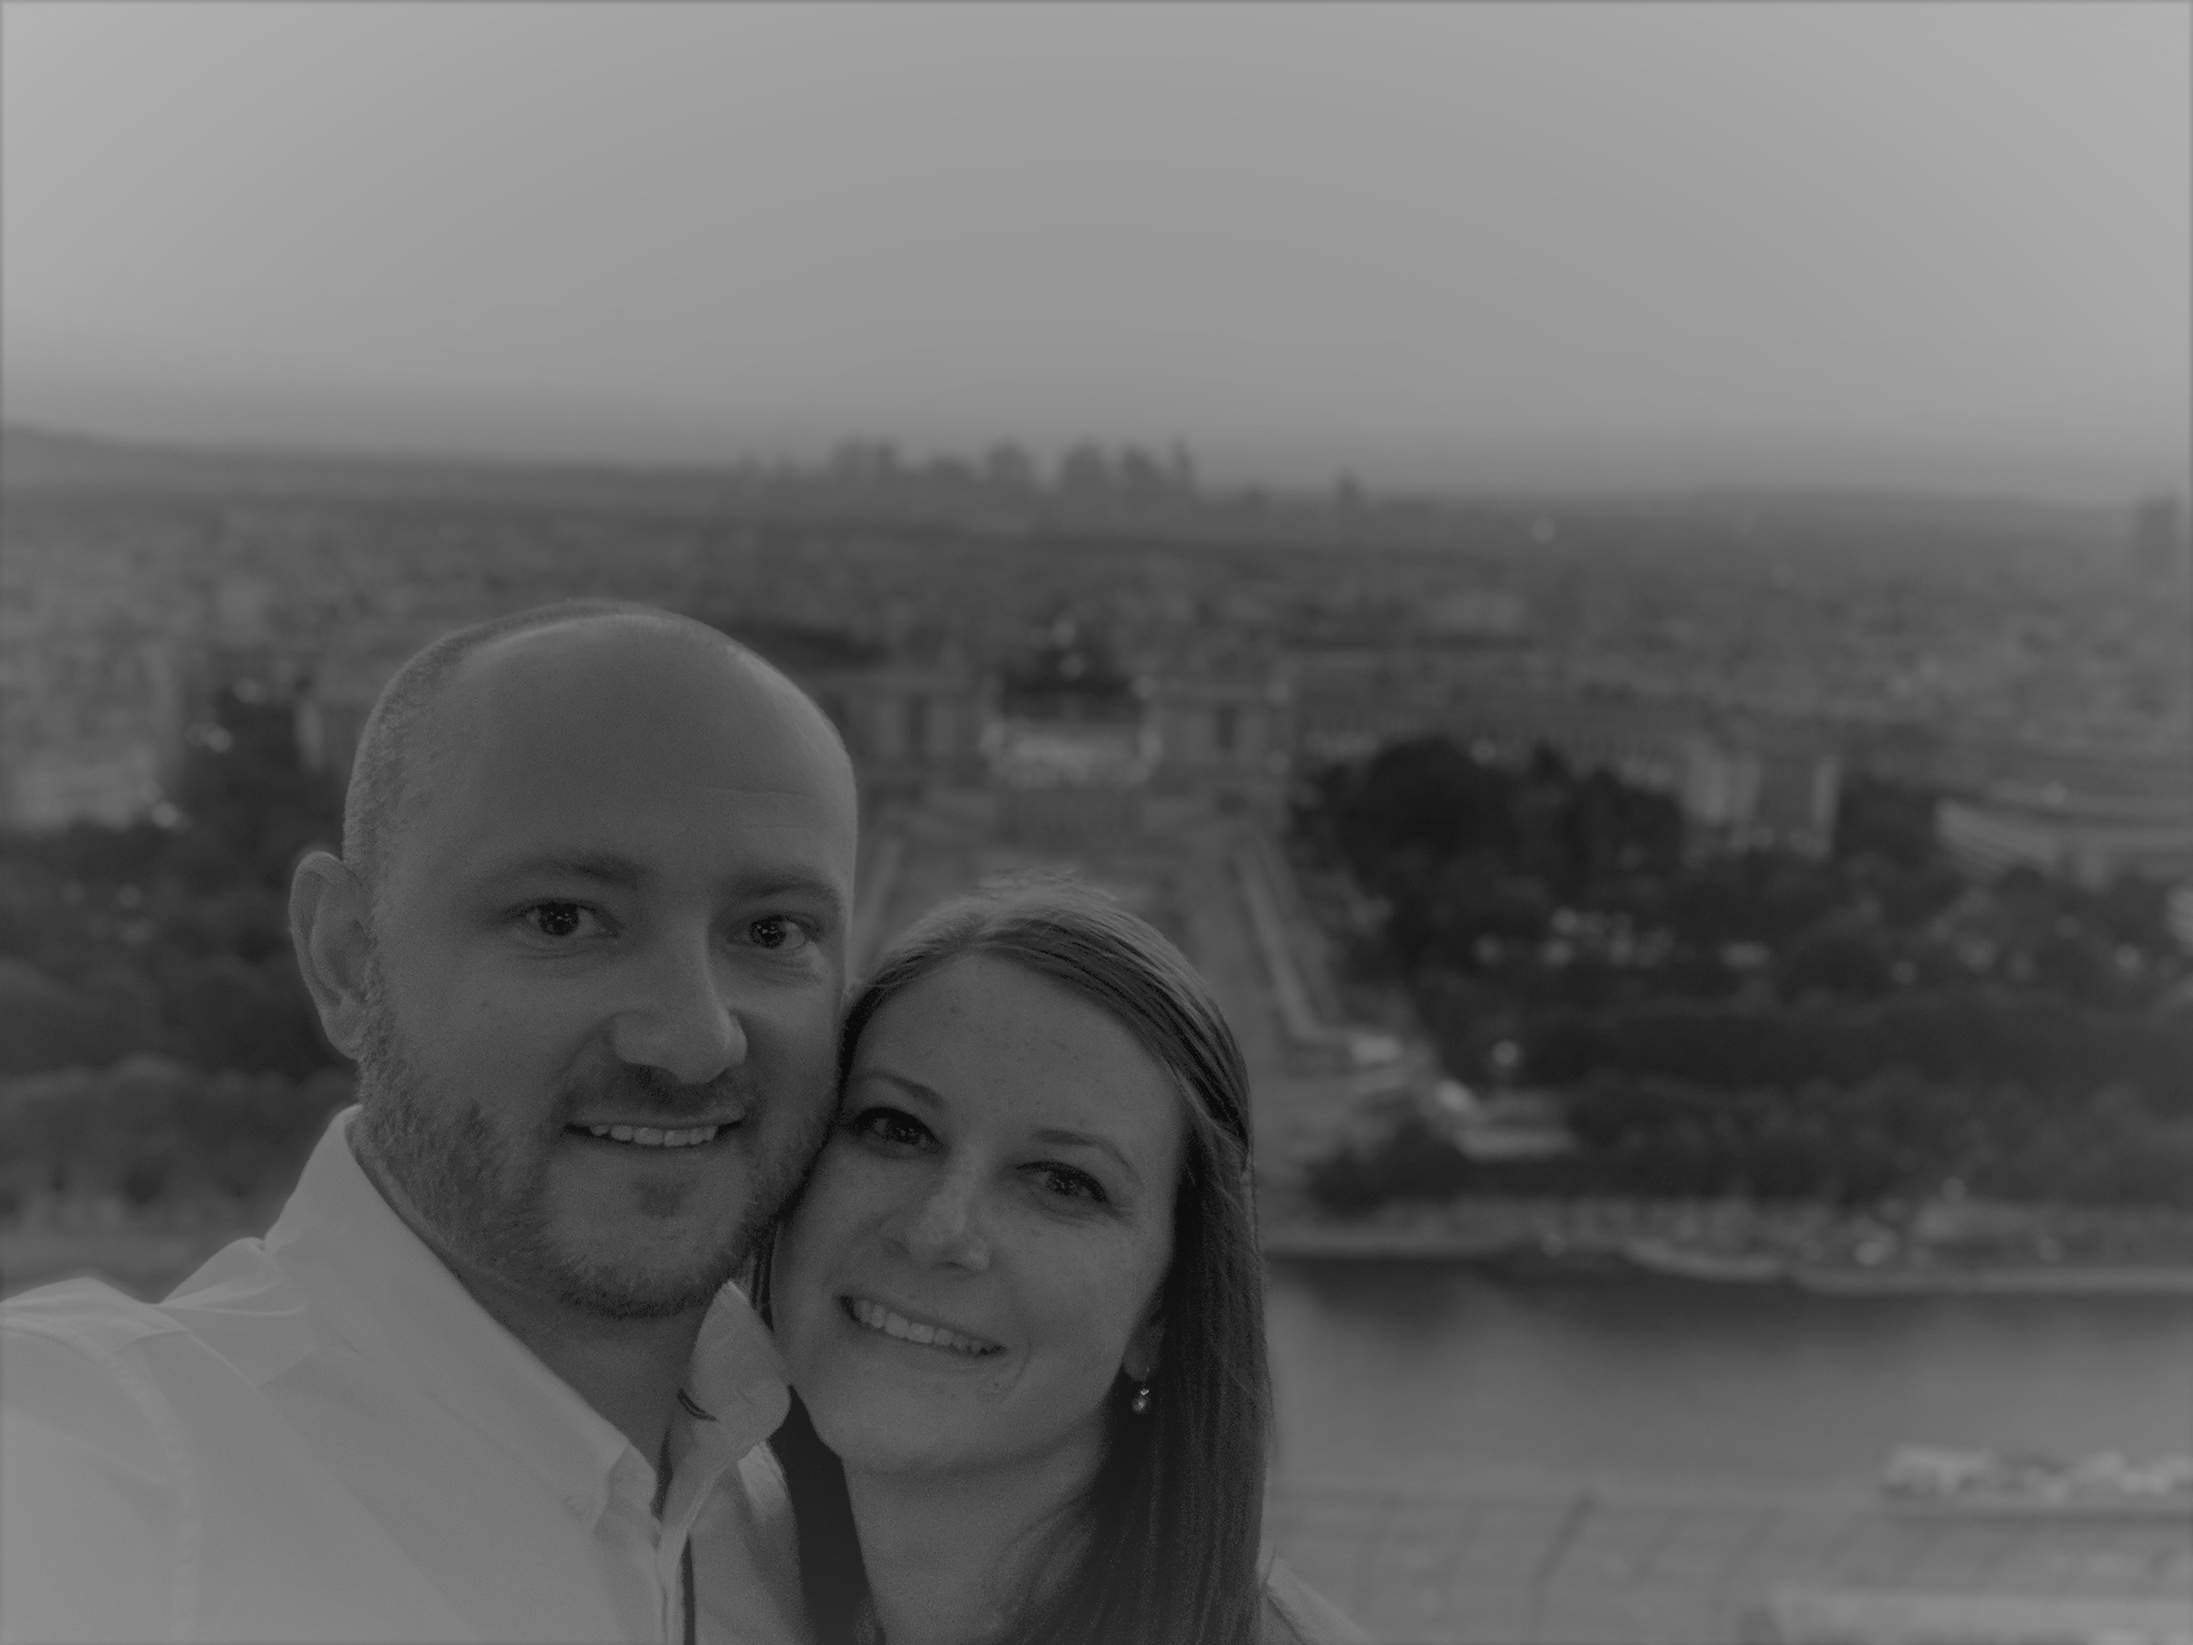
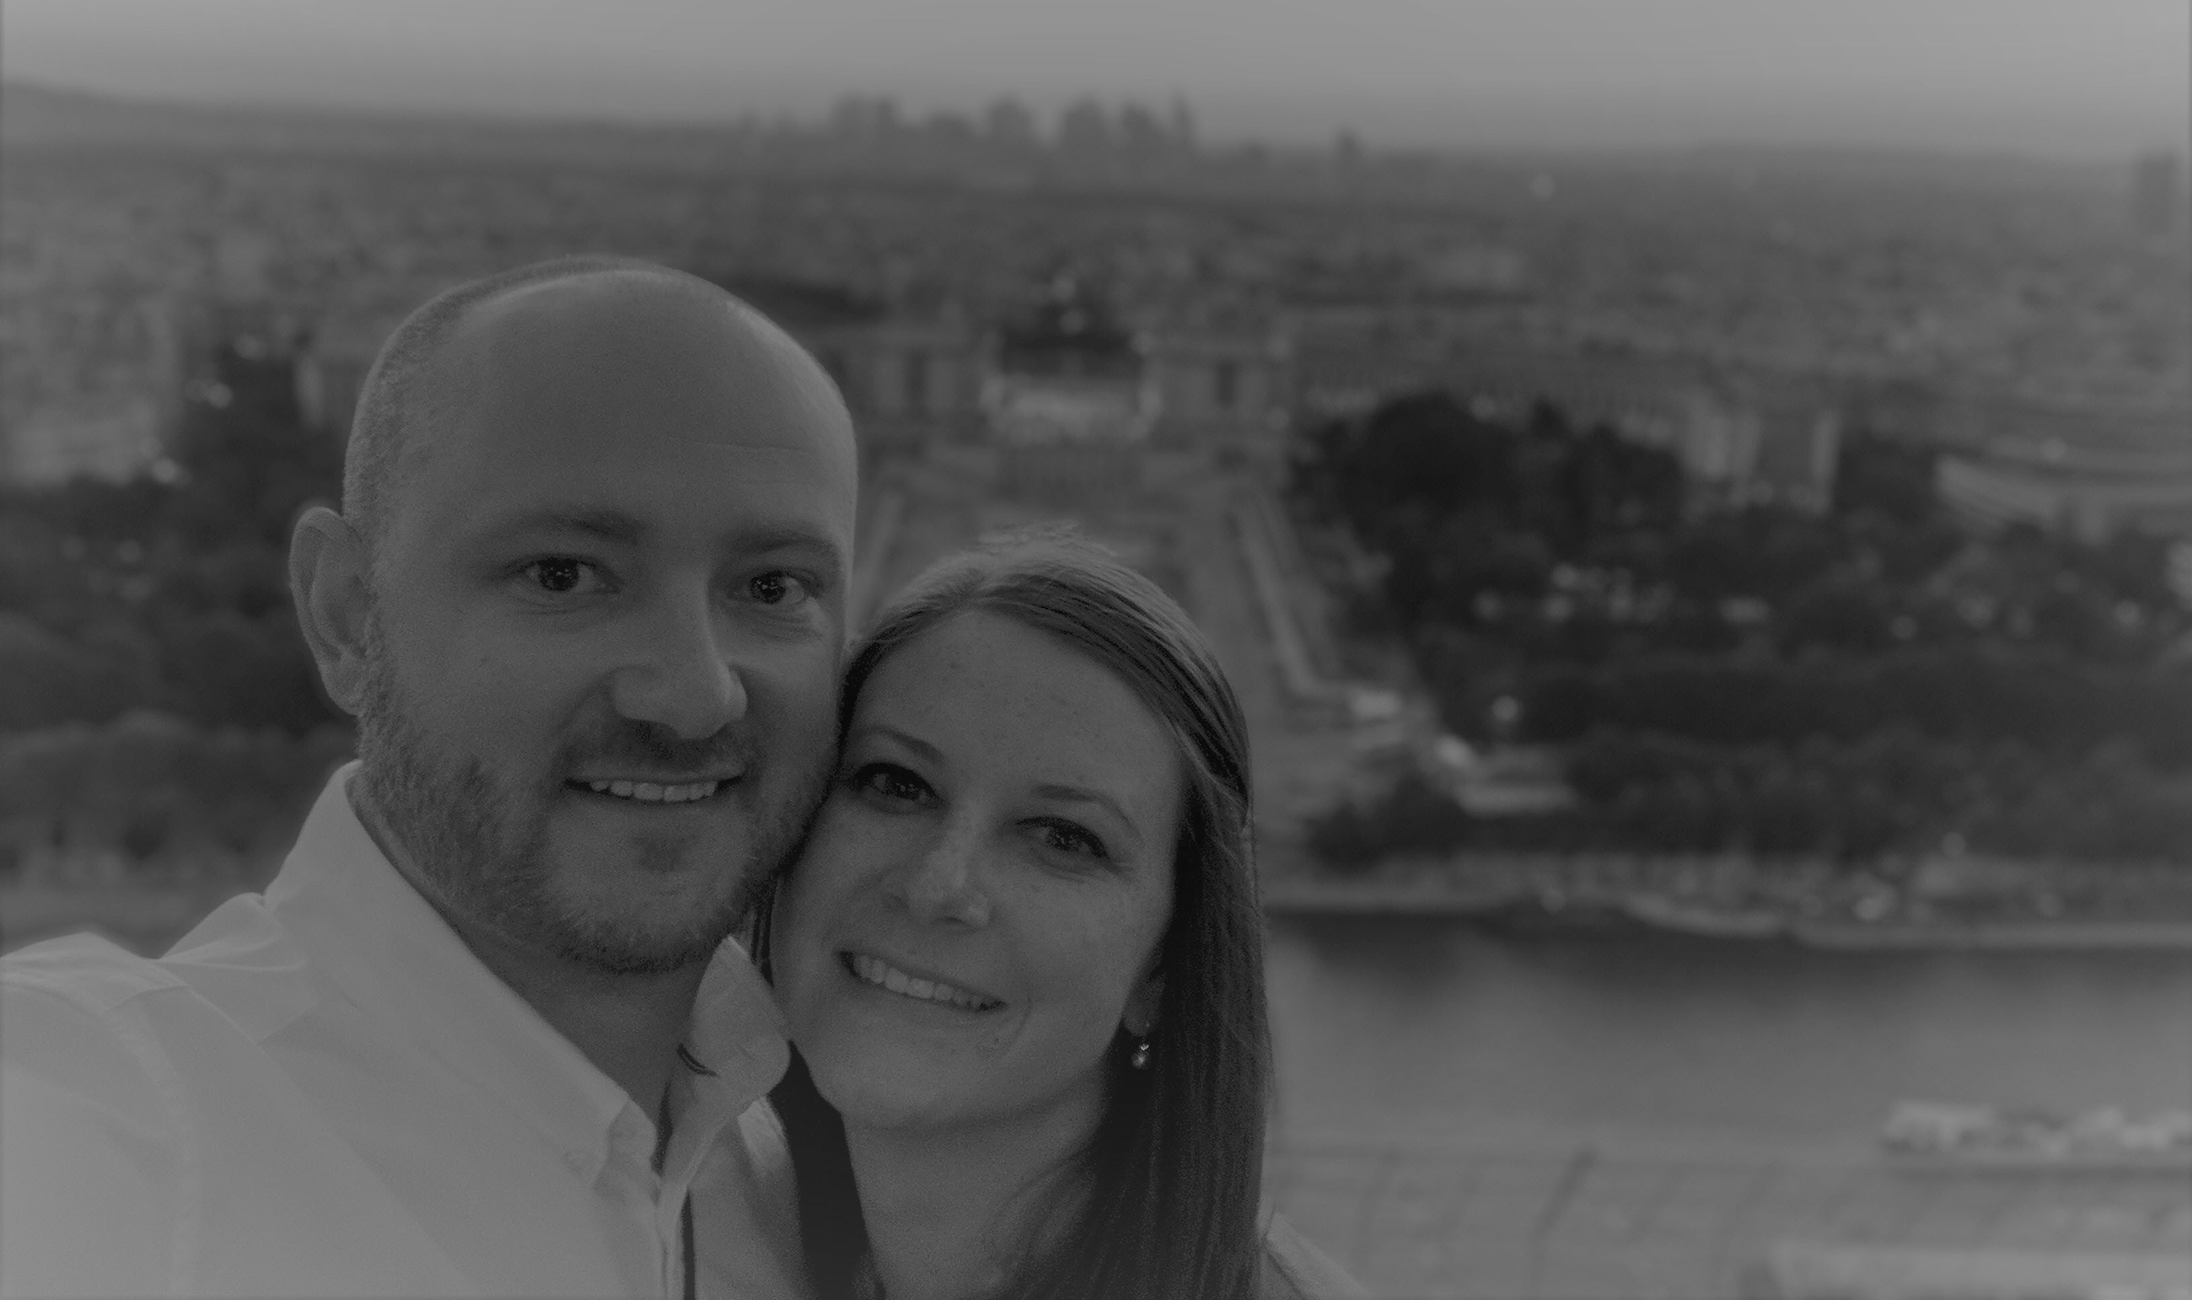
fixed some sections

diff --git a/index.html b/index.html
@@ -28,8 +28,17 @@
     }
 
     section {
-    padding: 50px 0;
+    padding: 25px 0;
 }
+
+    #contact {
+ color: #fed136;
+
+}
+#main-btn {
+    float: right
+}
+
     </style>
 
 </head>
@@ -71,9 +80,12 @@
     <header class="masthead">
         <div class="container">
             <div class="intro-text">
-                <div class="intro-lead-in">Welcome, friends</div>
-                <div class="intro-heading text-uppercase">Have a look around</div>
-                <a class="btn btn-primary btn-xl text-uppercase js-scroll-trigger" href="#team">Meet Tom</a>
+                <div class="intro-lead-in" style="text-align: right">
+                    <h1>meet(TomOcheltree) {<br>product manager, <br>web developer <br>
+                        }</h1>
+                </div>
+                <!-- <div class="intro-heading text-uppercase">Have a look around</div> -->
+                <a class="btn btn-primary btn-xl text-uppercase js-scroll-trigger" id="main-btn" href="#team">About Tom</a>
             </div>
         </div>
     </header>
@@ -190,38 +202,7 @@
                         <p class="text-muted">Click this link and never miss another train</p>
                     </div>
                 </div>
-                <!-- <div class="col-md-4 col-sm-6 portfolio-item">
-                    <a class="portfolio-link" data-toggle="modal" href="#portfolioModal5">
-                        <div class="portfolio-hover">
-                            <div class="portfolio-hover-content">
-                                <i class="fas fa-plus fa-3x"></i>
-                            </div>
-                        </div>
-                        <img class="img-fluid" src="./startbootstrap-agency-gh-pages/img/portfolio/05-thumbnail.jpg"
-                            alt="">
-                    </a>
-                    <div class="portfolio-caption">
-                        <h4>Southwest</h4>
-                        <p class="text-muted">Website Design</p>
-                    </div>
-                </div>
-                <div class="col-md-4 col-sm-6 portfolio-item">
-                    <a class="portfolio-link" data-toggle="modal" href="#portfolioModal6">
-                        <div class="portfolio-hover">
-                            <div class="portfolio-hover-content">
-                                <i class="fas fa-plus fa-3x"></i>
-                            </div>
-                        </div>
-                        <img class="img-fluid" src="./startbootstrap-agency-gh-pages/img/portfolio/06-thumbnail.jpg"
-                            alt="">
-                    </a>
-                    <div class="portfolio-caption">
-                        <h4>Window</h4>
-                        <p class="text-muted">Photography</p>
-                    </div>
-                </div>
-            </div>
-        </div> -->
+
     </section>
 
     <!-- About -->
@@ -230,7 +211,7 @@
             <div class="row">
                 <div class="col-lg-12 text-center">
                     <h2 class="section-heading text-uppercase">About</h2>
-                    <h3 class="section-subheading text-muted">Lorem ipsum dolor sit amet consectetur.</h3>
+                    <h3 class="section-subheading text-muted">Section under construction</h3>
                 </div>
             </div>
             <div class="row">
@@ -326,50 +307,23 @@
         <div class="container">
             <div class="row">
                 <div class="col-lg-12 text-center">
-                    <h2 class="section-heading text-uppercase">Our Amazing Team</h2>
+                    <h2 class="section-heading text-uppercase">Meet Tom</h2>
                     <h3 class="section-subheading text-muted">Believe it or not, it's a one-man show.</h3>
                 </div>
             </div>
             <div class="row">
                 <div class="col-sm-4">
-                    <!-- <div class="team-member">
-                        <img class="mx-auto rounded-circle" src="./startbootstrap-agency-gh-pages/img/team/1.jpg" alt="">
-                        <h4>Kay Garland</h4>
-                        <p class="text-muted">Lead Designer</p>
-                        <ul class="list-inline social-buttons">
-                            <li class="list-inline-item">
-                                <a href="#">
-                                    <i class="fab fa-twitter"></i>
-                                </a>
-                            </li>
-                            <li class="list-inline-item">
-                                <a href="#">
-                                    <i class="fab fa-facebook-f"></i>
-                                </a>
-                            </li>
-                            <li class="list-inline-item">
-                                <a href="#">
-                                    <i class="fab fa-linkedin-in"></i>
-                                </a>
-                            </li>
-                        </ul>
-                    </div> -->
+
                 </div>
                 <div class="col-sm-4">
                     <div class="team-member">
-                        <img class="mx-auto rounded-circle" src="./startbootstrap-agency-gh-pages/img/team/Tom in Paris.jpg"
-                            alt="">
+                        <img class="mx-auto" src="./startbootstrap-agency-gh-pages/img/team/Tom in Paris.jpg" alt="">
                         <h4>Tom Ocheltree</h4>
                         <p class="text-muted">Lead developer and all around great guy</p>
                         <ul class="list-inline social-buttons">
                             <li class="list-inline-item">
-                                <a href="#">
-                                    <i class="fab fa-twitter"></i>
-                                </a>
-                            </li>
-                            <li class="list-inline-item">
-                                <a href="#">
-                                    <i class="fab fa-facebook-f"></i>
+                                <a href="https://github.com/tjochelt" target="_blank">
+                                    <i class="fab fa-github"></i>
                                 </a>
                             </li>
                             <li class="list-inline-item">
@@ -407,8 +361,8 @@
             </div>
             <div class="row">
                 <div class="col-lg-8 mx-auto text-center">
-                    <p class="large text-muted">Lorem ipsum dolor sit amet, consectetur adipisicing elit. Aut eaque,
-                        laboriosam veritatis, quos non quis ad perspiciatis, totam corporis ea, alias ut unde.</p>
+                    <!-- <p class="large text-muted">Lorem ipsum dolor sit amet, consectetur adipisicing elit. Aut eaque,
+                        laboriosam veritatis, quos non quis ad perspiciatis, totam corporis ea, alias ut unde.</p> -->
                 </div>
             </div>
         </div>
@@ -451,46 +405,12 @@
         <div class="container">
             <div class="row">
                 <div class="col-lg-12 text-center">
-                    <h2 class="section-heading text-uppercase">Contact Tom</h2>
-                    <h3 class="section-subheading text-muted">Go ahead, send some spam</h3>
+
                 </div>
             </div>
             <div class="row">
                 <div class="col-lg-12">
-                    <form id="contactForm" name="sentMessage" novalidate="novalidate">
-                        <div class="row">
-                            <div class="col-md-6">
-                                <div class="form-group">
-                                    <input class="form-control" id="name" type="text" placeholder="Your Name *"
-                                        required="required" data-validation-required-message="Please enter your name.">
-                                    <p class="help-block text-danger"></p>
-                                </div>
-                                <div class="form-group">
-                                    <input class="form-control" id="email" type="email" placeholder="Your Email *"
-                                        required="required" data-validation-required-message="Please enter your email address.">
-                                    <p class="help-block text-danger"></p>
-                                </div>
-                                <div class="form-group">
-                                    <input class="form-control" id="phone" type="tel" placeholder="Your Phone *"
-                                        required="required" data-validation-required-message="Please enter your phone number.">
-                                    <p class="help-block text-danger"></p>
-                                </div>
-                            </div>
-                            <div class="col-md-6">
-                                <div class="form-group">
-                                    <textarea class="form-control" id="message" placeholder="Your Message *" required="required"
-                                        data-validation-required-message="Please enter a message."></textarea>
-                                    <p class="help-block text-danger"></p>
-                                </div>
-                            </div>
-                            <div class="clearfix"></div>
-                            <div class="col-lg-12 text-center">
-                                <div id="success"></div>
-                                <button id="sendMessageButton" class="btn btn-primary btn-xl text-uppercase" type="submit">Send
-                                    Message</button>
-                            </div>
-                        </div>
-                    </form>
+                    <span class="text-center" id="contact">const contact = {email: "tom.ocheltree@gmail.com"}</span>
                 </div>
             </div>
         </div>
@@ -506,15 +426,11 @@
                 <div class="col-md-4">
                     <ul class="list-inline social-buttons">
                         <li class="list-inline-item">
-                            <a href="#">
-                                <i class="fab fa-twitter"></i>
+                            <a href="https://github.com/tjochelt" target="_blank">
+                                <i class="fab fa-github"></i>
                             </a>
                         </li>
-                        <li class="list-inline-item">
-                            <a href="#">
-                                <i class="fab fa-facebook-f"></i>
-                            </a>
-                        </li>
+
                         <li class="list-inline-item">
                             <a href="#">
                                 <i class="fab fa-linkedin-in"></i>

diff --git a/startbootstrap-agency-gh-pages/scss/_masthead.scss b/startbootstrap-agency-gh-pages/scss/_masthead.scss
@@ -2,13 +2,13 @@
 header.masthead {
   text-align: center;
   color: white;
-  background-image: url('../img/header-bg.jpg');
+  background-image: url("../img/paris_new.jpg");
   background-repeat: no-repeat;
   background-attachment: scroll;
   background-position: center center;
   background-size: cover;
   .intro-text {
-    padding-top: 150px;
+    padding-top: 10px;
     padding-bottom: 100px;
     .intro-lead-in {
       font-size: 22px;
@@ -26,10 +26,10 @@ header.masthead {
     }
   }
 }
-@media(min-width:768px) {
+@media (min-width: 768px) {
   header.masthead {
     .intro-text {
-      padding-top: 300px;
+      padding-top: 200px;
       padding-bottom: 200px;
       .intro-lead-in {
         font-size: 40px;

diff --git a/startbootstrap-agency-gh-pages/css/agency.min.css b/startbootstrap-agency-gh-pages/css/agency.min.css
@@ -169,7 +169,7 @@ img::-moz-selection {
 header.masthead {
   text-align: center;
   color: #fff;
-  background-image: url(../img/header-bg.jpg);
+  background-image: url(../img/paris_new.jpg);
   background-repeat: no-repeat;
   background-attachment: scroll;
   background-position: center center;
@@ -548,8 +548,8 @@ header.masthead .intro-text .intro-heading {
   text-align: center;
 }
 .team-member img {
-  width: 225px;
-  height: 225px;
+  width: 200px;
+  height: 300px;
   border: 7px solid #fff;
 }
 .team-member h4 {
